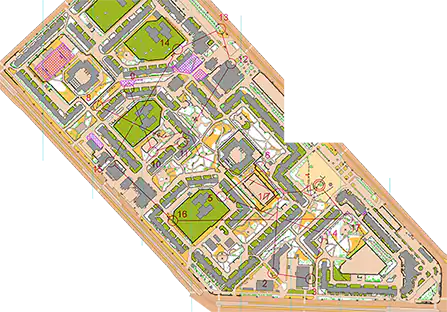
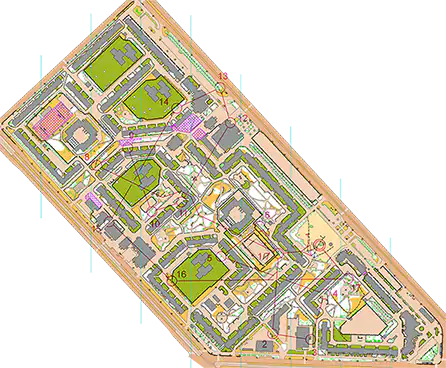
Комендантский пр от Миши Чегаровского

diff --git a/js/maps-city.js b/js/maps-city.js
@@ -1185,8 +1185,8 @@ let cityMaps = [
         name: 'Комендантский-Ильюшина',
         year: 2026,
         url: './maps/city/komendantsky_metro_2026.webp',
-        link: './original_maps/city/komendantsky_metro_st_2026_omaps.gif',
-        bounds: [[60.0157623, 30.2425933], [60.0139070, 30.2616262], [60.0088662, 30.2395892]],
+        link: ['./original_maps/city/komendantsky_metro_st_2026_omaps.gif','./original_maps/city/komendantsky_metro_st_m_2026_omaps.gif','./original_maps/city/komendantsky_metro_st_w_2026_omaps.gif'],
+        bounds: [[60.0171992, 30.2433228], [60.0153655, 30.2622056], [60.0090700, 30.2397180]],
         author: 'CHGRVSKY_Y',
         owner: 'KUZM_CHGRVSKY',
         type: ['CITY','SPRINT']
